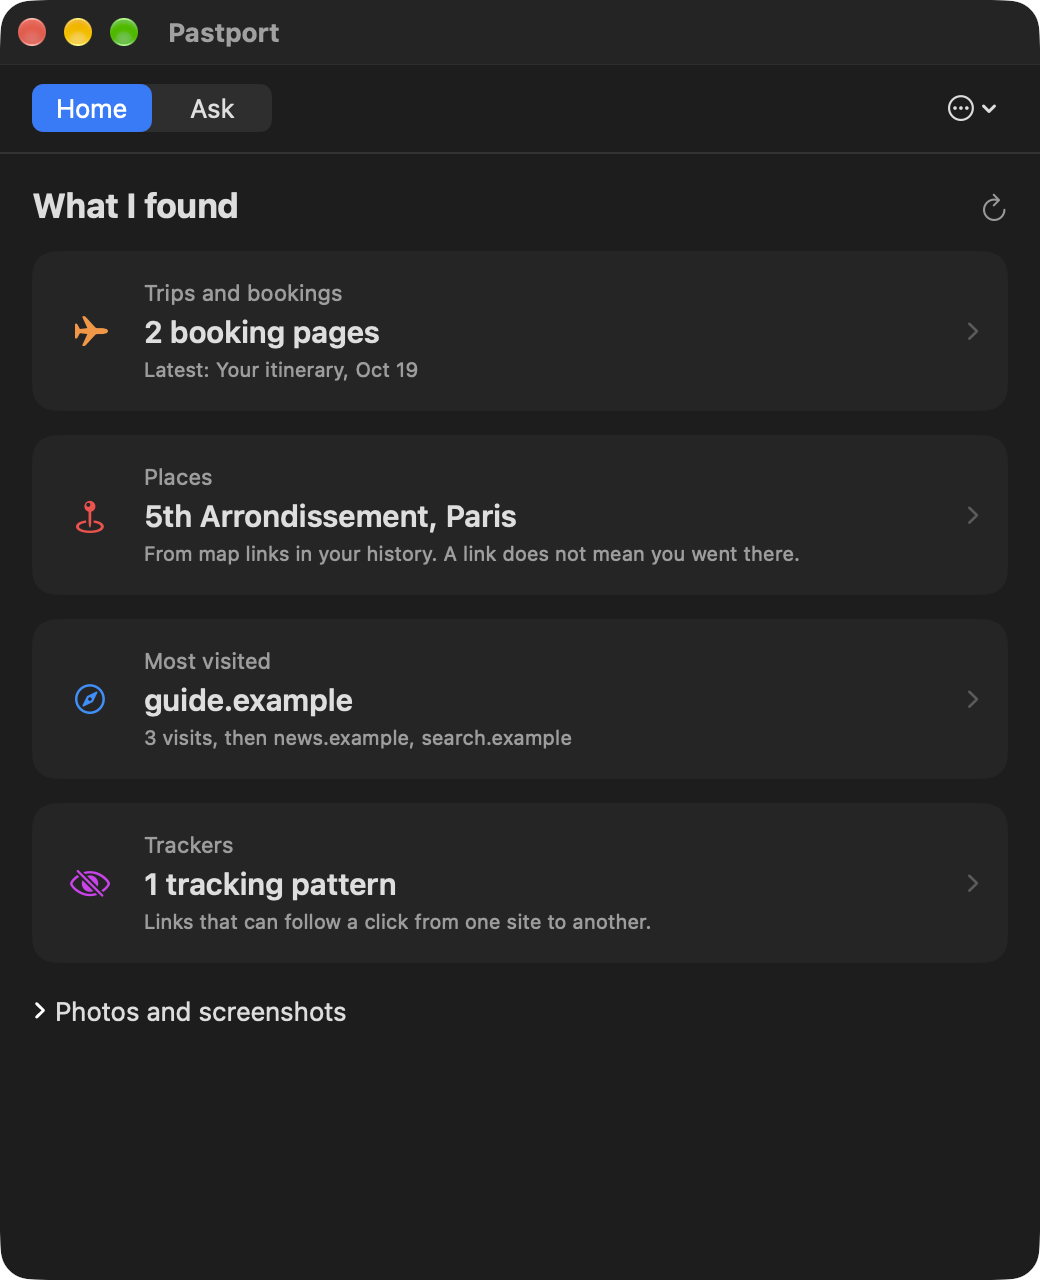
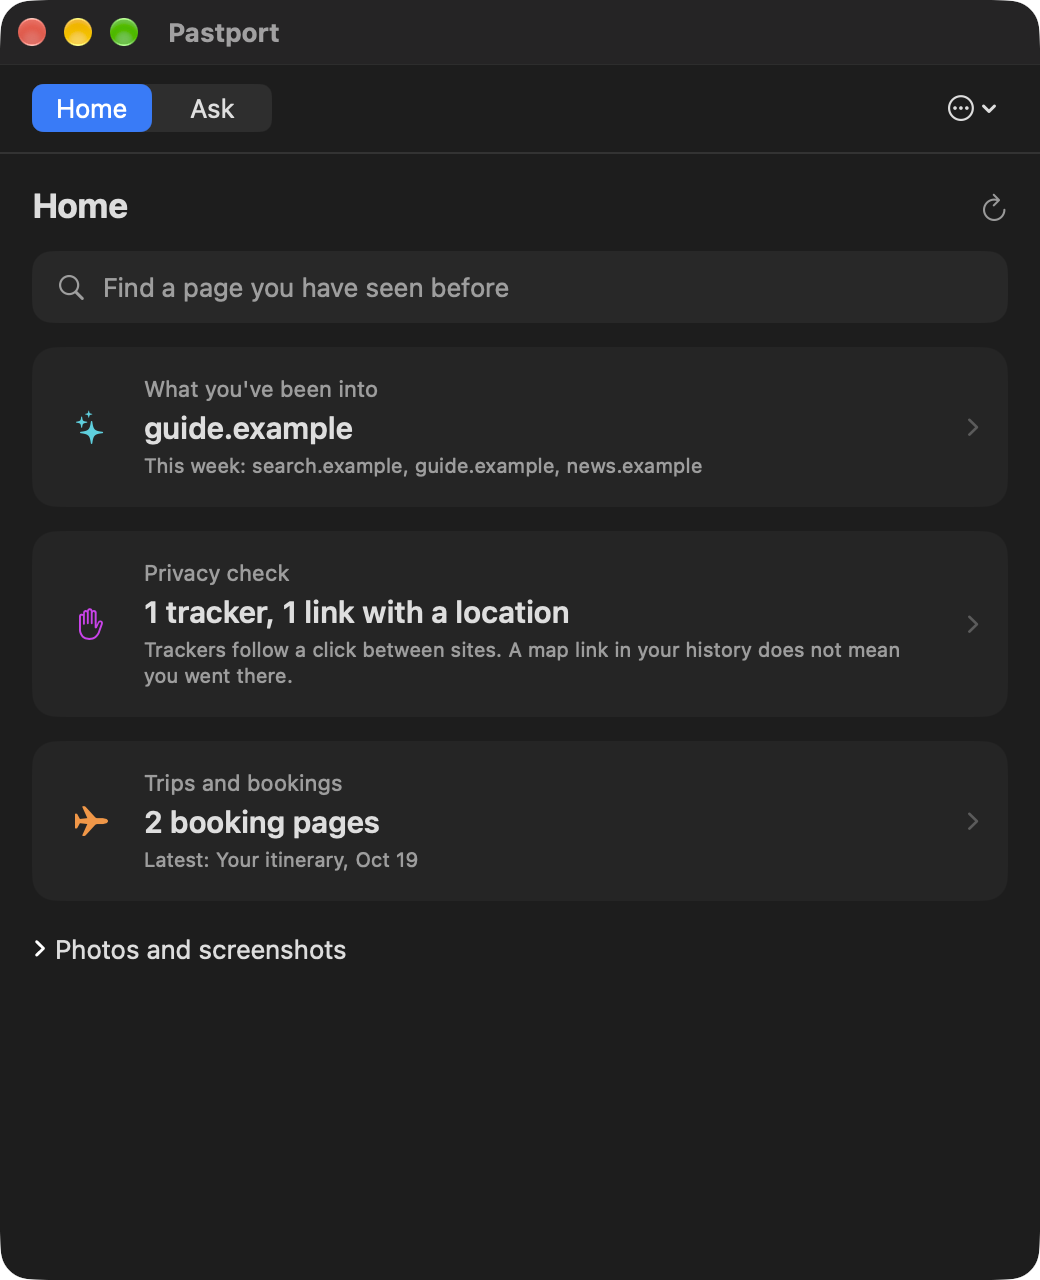
Home leads with finding a page again; general jobs before trips
Order: search your history, what you've been into, privacy check, then trips and
bookings. First-run sentence and README lead with finding a page again.

diff --git a/Sources/PastportKit/TimelineModel+Home.swift b/Sources/PastportKit/TimelineModel+Home.swift
@@ -13,6 +13,21 @@ extension TimelineModel {
         return status
     }
 
+    /// Pages in the read history whose title or address contains every word, newest first.
+    public func search(_ text: String, limit: Int = 40) -> [Visit] {
+        let words = text.lowercased().components(separatedBy: CharacterSet.alphanumerics.inverted).filter { !$0.isEmpty }
+        guard !words.isEmpty else { return [] }
+        var seen = Set<String>()
+        var found: [Visit] = []
+        for visit in visits.sorted(by: { $0.time > $1.time }) {
+            let haystack = (visit.title + " " + visit.cleanURL).lowercased()
+            guard words.allSatisfy({ haystack.contains($0) }), seen.insert(visit.cleanURL).inserted else { continue }
+            found.append(visit)
+            if found.count == limit { break }
+        }
+        return found
+    }
+
     /// Research topics that are safe to name on screen. Sensitive topics stay behind authentication.
     public var nameableThreads: [IntentThread] { threads.filter { !$0.isSensitive } }
 
@@ -20,11 +35,11 @@ extension TimelineModel {
     public var starterQuestions: [String] {
         var starters: [String] = []
         if historyLoaded {
-            if !travel.isEmpty { starters.append("How many booking pages did I visit?") }
-            if !movements.isEmpty { starters.append("Which places appear in my history?") }
             if !sites.isEmpty { starters.append("Which sites do I visit most?") }
             starters.append("How many pages did I visit yesterday?")
             if !nameableThreads.isEmpty { starters.append("What was I researching?") }
+            if !movements.isEmpty { starters.append("Which places appear in my history?") }
+            if !travel.isEmpty { starters.append("How many booking pages did I visit?") }
         } else {
             if !photoEvents.isEmpty { starters.append("What does my photo activity show?") }
             if !screenshots.isEmpty { starters.append("What does my screenshot say?") }
@@ -45,11 +60,54 @@ extension TimelineModel {
         public var id: HistoryFocus { focus }
     }
 
-    /// The findings that have something to show, in the order a person cares about.
+    /// The findings that have something to show. General jobs come first; trips are one card among them.
     public var focusCards: [FocusCard] {
         var cards: [FocusCard] = []
         func inflected(_ text: AttributedString) -> String { String(text.characters) }
         func day(_ d: Date) -> String { d.formatted(.dateTime.month(.abbreviated).day()) }
+
+        // What you have been into: research topics, and the sites you used most this week.
+        let weekStart = Date().addingTimeInterval(-7 * 86_400)
+        var weekCounts: [String: Int] = [:]
+        for visit in visits where visit.time >= weekStart { weekCounts[visit.host, default: 0] += 1 }
+        let weekRanked = weekCounts.sorted { a, b in a.value != b.value ? a.value > b.value : a.key < b.key }
+        let weekHosts: [String] = weekRanked.prefix(3).map { $0.key }
+        // A sensitive topic shows neither its name nor its count.
+        let named = nameableThreads
+        var topic: String?
+        if let first = named.first { topic = ([first.term] + first.related).joined(separator: ", ").capitalized }
+        if topic != nil || !sites.isEmpty {
+            var detailParts: [String] = []
+            if named.count > 1 {
+                let extra = named.count - 1
+                detailParts.append(inflected(AttributedString(localized: "^[\(extra) more topic](inflect: true)")))
+            }
+            let usingWeek = !weekHosts.isEmpty
+            let hosts: [String] = usingWeek ? weekHosts : sites.prefix(3).map { $0.host }
+            if !hosts.isEmpty {
+                detailParts.append((usingWeek ? "This week: " : "Most visited: ") + hosts.joined(separator: ", "))
+            }
+            let headline: String = topic ?? (sites.first?.host ?? "")
+            cards.append(FocusCard(
+                focus: .research, title: "What you've been into", headline: headline,
+                detail: detailParts.joined(separator: " · "), symbol: "sparkles", tint: .teal))
+        }
+
+        // Privacy check: trackers, and links that carry a location.
+        let t = trackerSignals.count, m = movements.count
+        let privacyHeadline: String
+        if t == 0 && m == 0 {
+            privacyHeadline = "Nothing concerning found"
+        } else {
+            let trackers = inflected(AttributedString(localized: "^[\(t) tracker](inflect: true)"))
+            let links = inflected(AttributedString(localized: "^[\(m) link](inflect: true) with a location"))
+            privacyHeadline = [t > 0 ? trackers : nil, m > 0 ? links : nil].compactMap { $0 }.joined(separator: ", ")
+        }
+        cards.append(FocusCard(
+            focus: .privacy, title: "Privacy check", headline: privacyHeadline,
+            detail: "Trackers follow a click between sites. A map link in your history does not mean you went there.",
+            symbol: "hand.raised", tint: .purple))
+
         if !travel.isEmpty {
             let latest = travel.max { $0.time < $1.time }
             let n = travel.count
@@ -58,41 +116,6 @@ extension TimelineModel {
                 headline: inflected(AttributedString(localized: "^[\(n) booking page](inflect: true)")),
                 detail: latest.map { "Latest: " + ($0.title.isEmpty ? Bookings.name(for: $0.host) : $0.title) + ", " + day($0.time) } ?? "",
                 symbol: "airplane", tint: .orange))
-        }
-        let places = Array(NSOrderedSet(array: movements.compactMap(\.place))) as? [String] ?? []
-        if !places.isEmpty {
-            cards.append(FocusCard(
-                focus: .places, title: "Places",
-                headline: places.prefix(2).joined(separator: ", ") + (places.count > 2 ? " and \(places.count - 2) more" : ""),
-                detail: "From map links in your history. A link does not mean you went there.",
-                symbol: "mappin.and.ellipse", tint: .red))
-        }
-        // Only topics that are safe to show. A sensitive topic shows neither its name nor its count.
-        let named = nameableThreads
-        if let first = named.first {
-            let n = named.count
-            cards.append(FocusCard(
-                focus: .research, title: "What you looked into",
-                headline: ([first.term] + first.related).joined(separator: ", ").capitalized,
-                detail: n > 1 ? inflected(AttributedString(localized: "^[\(n) topic](inflect: true) in all")) : "",
-                symbol: "magnifyingglass", tint: .teal))
-        }
-        if let top = sites.first {
-            cards.append(FocusCard(
-                focus: .overview, title: "Most visited",
-                headline: top.host,
-                detail: sites.dropFirst().isEmpty
-                    ? "\(top.visits) visits"
-                    : "\(top.visits) visits, then " + sites.dropFirst().prefix(2).map(\.host).joined(separator: ", "),
-                symbol: "safari", tint: .blue))
-        }
-        if !trackerSignals.isEmpty {
-            let n = trackerSignals.count
-            cards.append(FocusCard(
-                focus: .privacy, title: "Trackers",
-                headline: inflected(AttributedString(localized: "^[\(n) tracking pattern](inflect: true)")),
-                detail: "Links that can follow a click from one site to another.",
-                symbol: "eye.slash", tint: .purple))
         }
         return cards
     }

diff --git a/Sources/PastportUI/Home.swift b/Sources/PastportUI/Home.swift
@@ -9,7 +9,7 @@ public struct WelcomeView: View {
 
     private var sentence: LocalizedStringKey {
         model.canReadHistory
-            ? "Find the trips, bookings and places hiding in your Safari history, privately on your Mac."
+            ? "Find anything you have seen before. Search your Safari history in plain words, privately on your Mac."
             : "Turn your photos and screenshots into a private timeline, then ask it questions."
     }
 
@@ -65,8 +65,18 @@ public struct WelcomeView: View {
 public struct HomeView: View {
     let model: TimelineModel
     @State private var detail: HistoryFocus?
+    @State private var query = HomeView.initialQuery
 
     public init(model: TimelineModel) { self.model = model }
+
+    /// Debug builds only: `--search <words>` opens Home with a search typed, for screenshots.
+    private static var initialQuery: String {
+        #if DEBUG
+        let arguments = ProcessInfo.processInfo.arguments
+        if let i = arguments.firstIndex(of: "--search"), arguments.indices.contains(i + 1) { return arguments[i + 1] }
+        #endif
+        return ""
+    }
 
     public var body: some View {
         if !model.hasContent {
@@ -87,24 +97,27 @@ public struct HomeView: View {
     private var findings: some View {
         VStack(alignment: .leading, spacing: 12) {
             HStack(alignment: .firstTextBaseline) {
-                Text("What I found").font(.title2.bold())
+                Text("Home").font(.title2.bold())
                 Spacer()
                 Button("Refresh", systemImage: "arrow.clockwise") { model.loadTrail() }
                     .labelStyle(.iconOnly).buttonStyle(.borderless).disabled(model.busy)
                     .help("Read your history again")
             }
-            ForEach(model.focusCards) { card in
-                Button { detail = card.focus } label: { FindingCard(card: card) }
-                    .buttonStyle(.plain).disabled(model.busy)
-            }
-            DisclosureGroup("Photos and screenshots") {
-                VStack(alignment: .leading, spacing: 14) {
-                    PhotoActivitySection(model: model)
-                    ScreenshotsSection(model: model)
-                }.padding(.top, 8)
-            }
-            if !model.coverage.isEmpty {
-                Text(model.coverage).font(.footnote).foregroundStyle(.secondary).padding(.top, 4)
+            HistorySearch(model: model, query: $query)
+            if query.trimmingCharacters(in: .whitespaces).isEmpty {
+                ForEach(model.focusCards) { card in
+                    Button { detail = card.focus } label: { FindingCard(card: card) }
+                        .buttonStyle(.plain).disabled(model.busy)
+                }
+                DisclosureGroup("Photos and screenshots") {
+                    VStack(alignment: .leading, spacing: 14) {
+                        PhotoActivitySection(model: model)
+                        ScreenshotsSection(model: model)
+                    }.padding(.top, 8)
+                }
+                if !model.coverage.isEmpty {
+                    Text(model.coverage).font(.footnote).foregroundStyle(.secondary).padding(.top, 4)
+                }
             }
         }
     }
@@ -215,7 +228,20 @@ struct FindingDetail: View {
             VStack(alignment: .leading, spacing: 12) {
                 Button(action: back) { Label("What I found", systemImage: "chevron.backward") }
                     .buttonStyle(.borderless)
-                SelectedEvidence(model: model, focus: focus)
+                switch focus {
+                case .research:
+                    SelectedEvidence(model: model, focus: .research)
+                    Divider().padding(.vertical, 4)
+                    SelectedEvidence(model: model, focus: .overview)
+                case .privacy:
+                    SelectedEvidence(model: model, focus: .privacy)
+                    if !model.movements.isEmpty {
+                        Divider().padding(.vertical, 4)
+                        SelectedEvidence(model: model, focus: .places)
+                    }
+                default:
+                    SelectedEvidence(model: model, focus: focus)
+                }
                 let starters = model.questions(for: focus)
                 if !starters.isEmpty {
                     Divider().padding(.vertical, 4)
@@ -228,6 +254,51 @@ struct FindingDetail: View {
                     }
                 }
             }.padding(16)
+        }
+    }
+}
+
+/// "Find it again": search the history that was read, in plain words.
+struct HistorySearch: View {
+    let model: TimelineModel
+    @Binding var query: String
+
+    private var results: [Visit] { model.search(query) }
+    private var searching: Bool { !query.trimmingCharacters(in: .whitespaces).isEmpty }
+
+    var body: some View {
+        VStack(alignment: .leading, spacing: 8) {
+            HStack(spacing: 8) {
+                Image(systemName: "magnifyingglass").foregroundStyle(.secondary).accessibilityHidden(true)
+                TextField("Find a page you have seen before", text: $query)
+                    .textFieldStyle(.plain)
+                if searching {
+                    Button("Clear", systemImage: "xmark.circle.fill") { query = "" }
+                        .labelStyle(.iconOnly).buttonStyle(.plain).foregroundStyle(.secondary)
+                }
+            }
+            .padding(.horizontal, 12).padding(.vertical, 10)
+            .background(.quaternary.opacity(0.5), in: RoundedRectangle(cornerRadius: 10))
+            if searching {
+                if results.isEmpty {
+                    Text("No page in your history matches \u{201C}\(query)\u{201D}.")
+                        .font(.callout).foregroundStyle(.secondary).padding(.top, 4)
+                } else {
+                    ForEach(results) { visit in
+                        if let url = URL(string: visit.url) {
+                            Link(destination: url) {
+                                VStack(alignment: .leading, spacing: 2) {
+                                    Text(visit.title.isEmpty ? visit.host : visit.title).font(.callout.weight(.medium)).lineLimit(2)
+                                    Text(visit.host + " · " + visit.time.formatted(.dateTime.month(.abbreviated).day().year()))
+                                        .font(.caption).foregroundStyle(.secondary)
+                                }
+                                .frame(maxWidth: .infinity, alignment: .leading).padding(.vertical, 4)
+                            }
+                            .buttonStyle(.plain)
+                        }
+                    }
+                }
+            }
         }
     }
 }

diff --git a/Sources/PastportUI/ExploreViews.swift b/Sources/PastportUI/ExploreViews.swift
@@ -9,7 +9,7 @@ struct SelectedEvidence: View {
     var body: some View {
         switch focus {
         case .overview:
-            Text("Most visited").font(.title3.bold())
+            Text("Sites you use most").font(.title3.bold())
             Text("Counts are page visits, not time spent.").font(.caption).foregroundStyle(.secondary)
             FlowChips(items: model.themes.map { "\($0.name) · \($0.visits)" })
             ForEach(model.sites) { site in
@@ -38,8 +38,8 @@ struct SelectedEvidence: View {
             }
             if model.trackerSignals.isEmpty { Text("No tracking parameter or redirect pattern was found in this window.").font(.callout) }
         case .places:
-            Text("Places").font(.title3.bold())
-            Text("Places named in map links you opened. A link does not mean you went there.").font(.caption).foregroundStyle(.secondary)
+            Text("Links that carry a location").font(.title3.bold())
+            Text("Map links you opened. A link does not mean you went there.").font(.caption).foregroundStyle(.secondary)
             ForEach(model.movements.prefix(24)) { MovementCard(leak: $0) }
         }
     }

diff --git a/Tests/PastportKitTests/TimelineModelTests.swift b/Tests/PastportKitTests/TimelineModelTests.swift
@@ -331,3 +331,31 @@ struct TimelineModelTests {
     }
 }
 #endif
+
+@Suite("Home search and card order")
+@MainActor
+struct HomeSearchTests {
+    private func demoModel() -> TimelineModel {
+        let model = TimelineModel(history: DemoHistorySource(), authenticator: AlwaysUnlocked(),
+                                  timelineAnswerer: ScriptedAnswerer(updates: []), appleIntelligenceReady: { false })
+        model.demoMode = true
+        model.start()
+        return model
+    }
+
+    @Test func searchFindsPagesByEveryWordNewestFirst() {
+        let model = demoModel()
+        let found = model.search("food guide")
+        #expect(found.count == 2)
+        #expect(found.first?.time ?? .distantPast >= found.last?.time ?? .distantFuture)
+        #expect(model.search("food zzzz").isEmpty)
+        #expect(model.search("   ").isEmpty)
+    }
+
+    @Test func generalJobsComeBeforeTripsOnTheHomeScreen() {
+        let order = demoModel().focusCards.map(\.focus)
+        #expect(order.first == .research)
+        #expect(order.contains(.privacy))
+        #expect(order.last == .travel)
+    }
+}

diff --git a/README.md b/README.md
@@ -1,8 +1,8 @@
 # Pastport
 
-**Your browser history knows where you live. Pastport helps you read it.**
+**Find anything you have seen before. Pastport searches your Safari history in plain words, privately on your Mac.**
 
-Pastport is a native macOS app, iPhone and iPad app, and CLI for finding travel trails, bookings, threads, and trackers in your own Safari history. Safari analysis runs locally, behind Touch ID, with no cloud account or hosted database. Apple Foundation Models run on-device; local Ollama remains available for CLI phrasing. The separate Connected tools assistant can contact the services shown in each approval request.
+Pastport is a native macOS app, iPhone and iPad app, and CLI. It helps you find a page again, see what you have been into, check your privacy (trackers and links that carry a location), and review trips and bookings, all from your own Safari history. Safari analysis runs locally, behind Touch ID, with no cloud account or hosted database. Apple Foundation Models run on-device; local Ollama remains available for CLI phrasing. The separate Connected tools assistant can contact the services shown in each approval request.
 
 ![Pastport Recent view](docs/pastport-recent.png)
 
